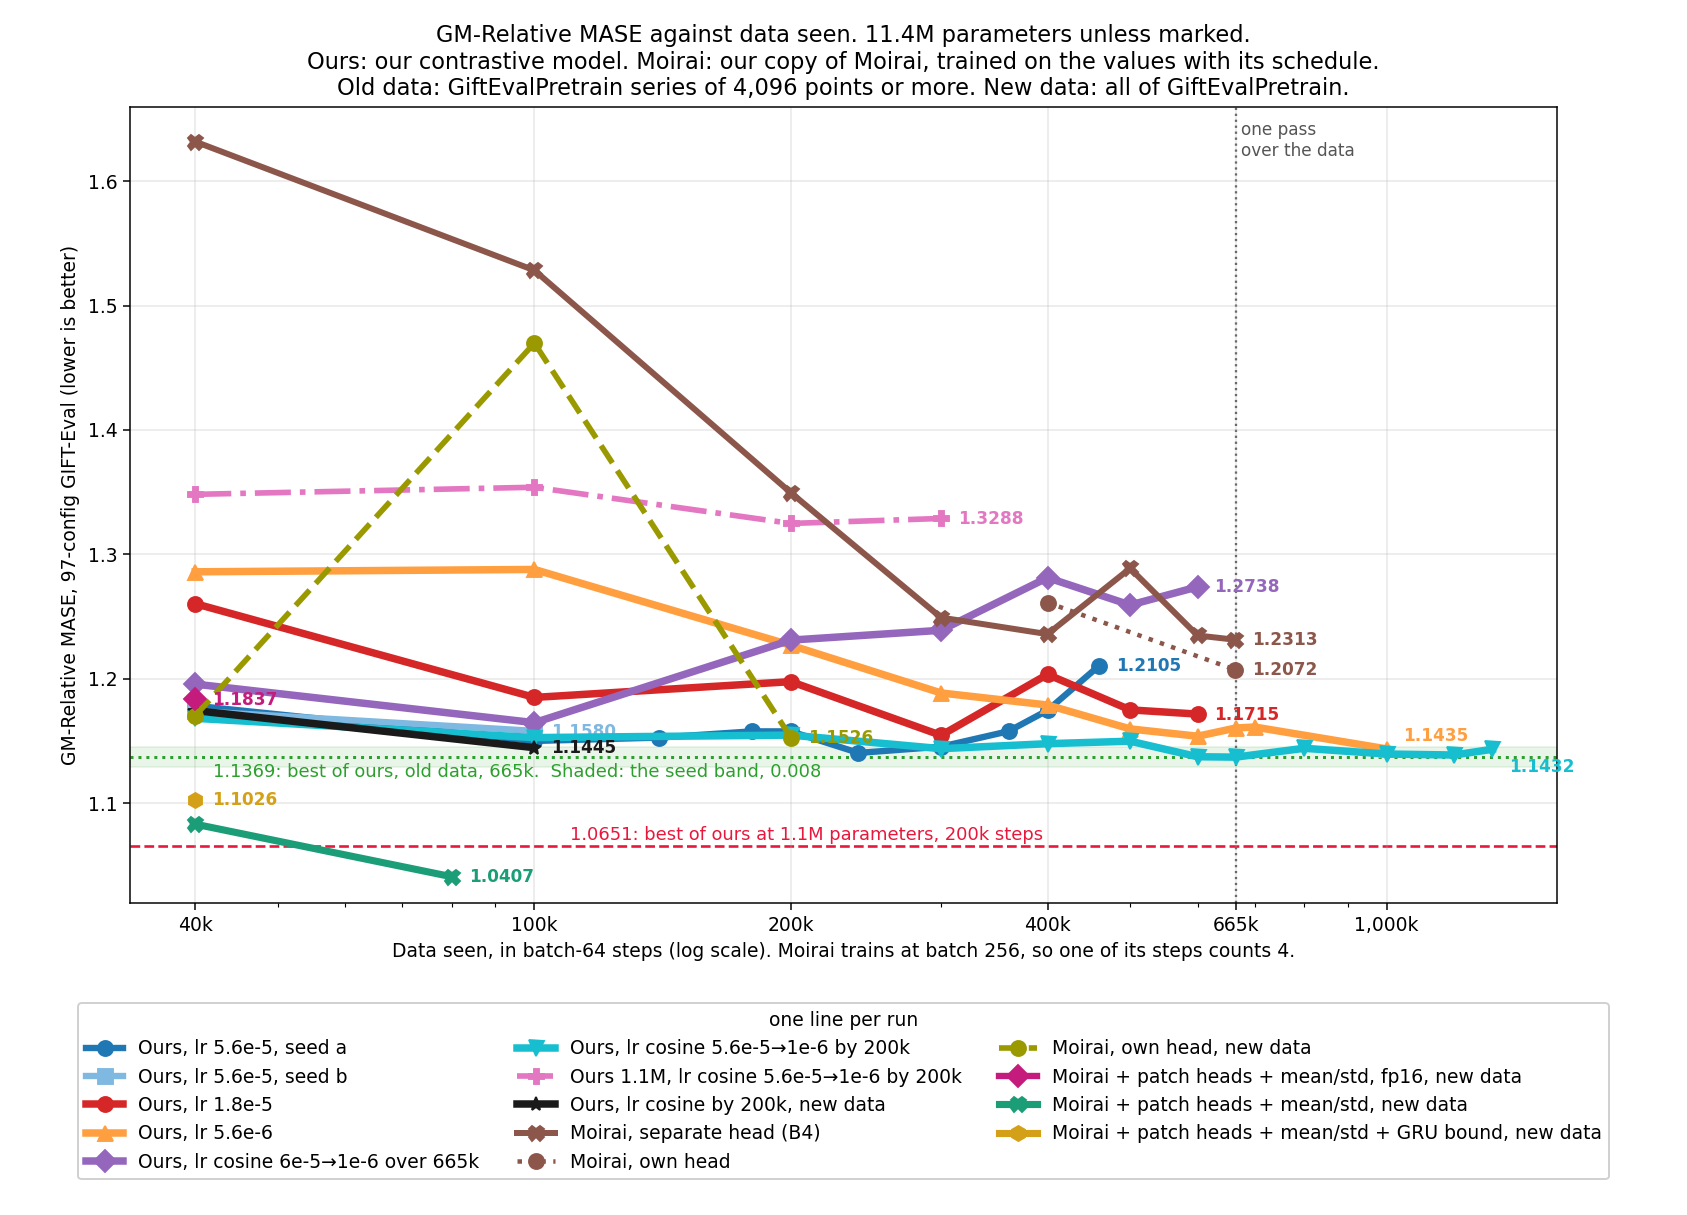
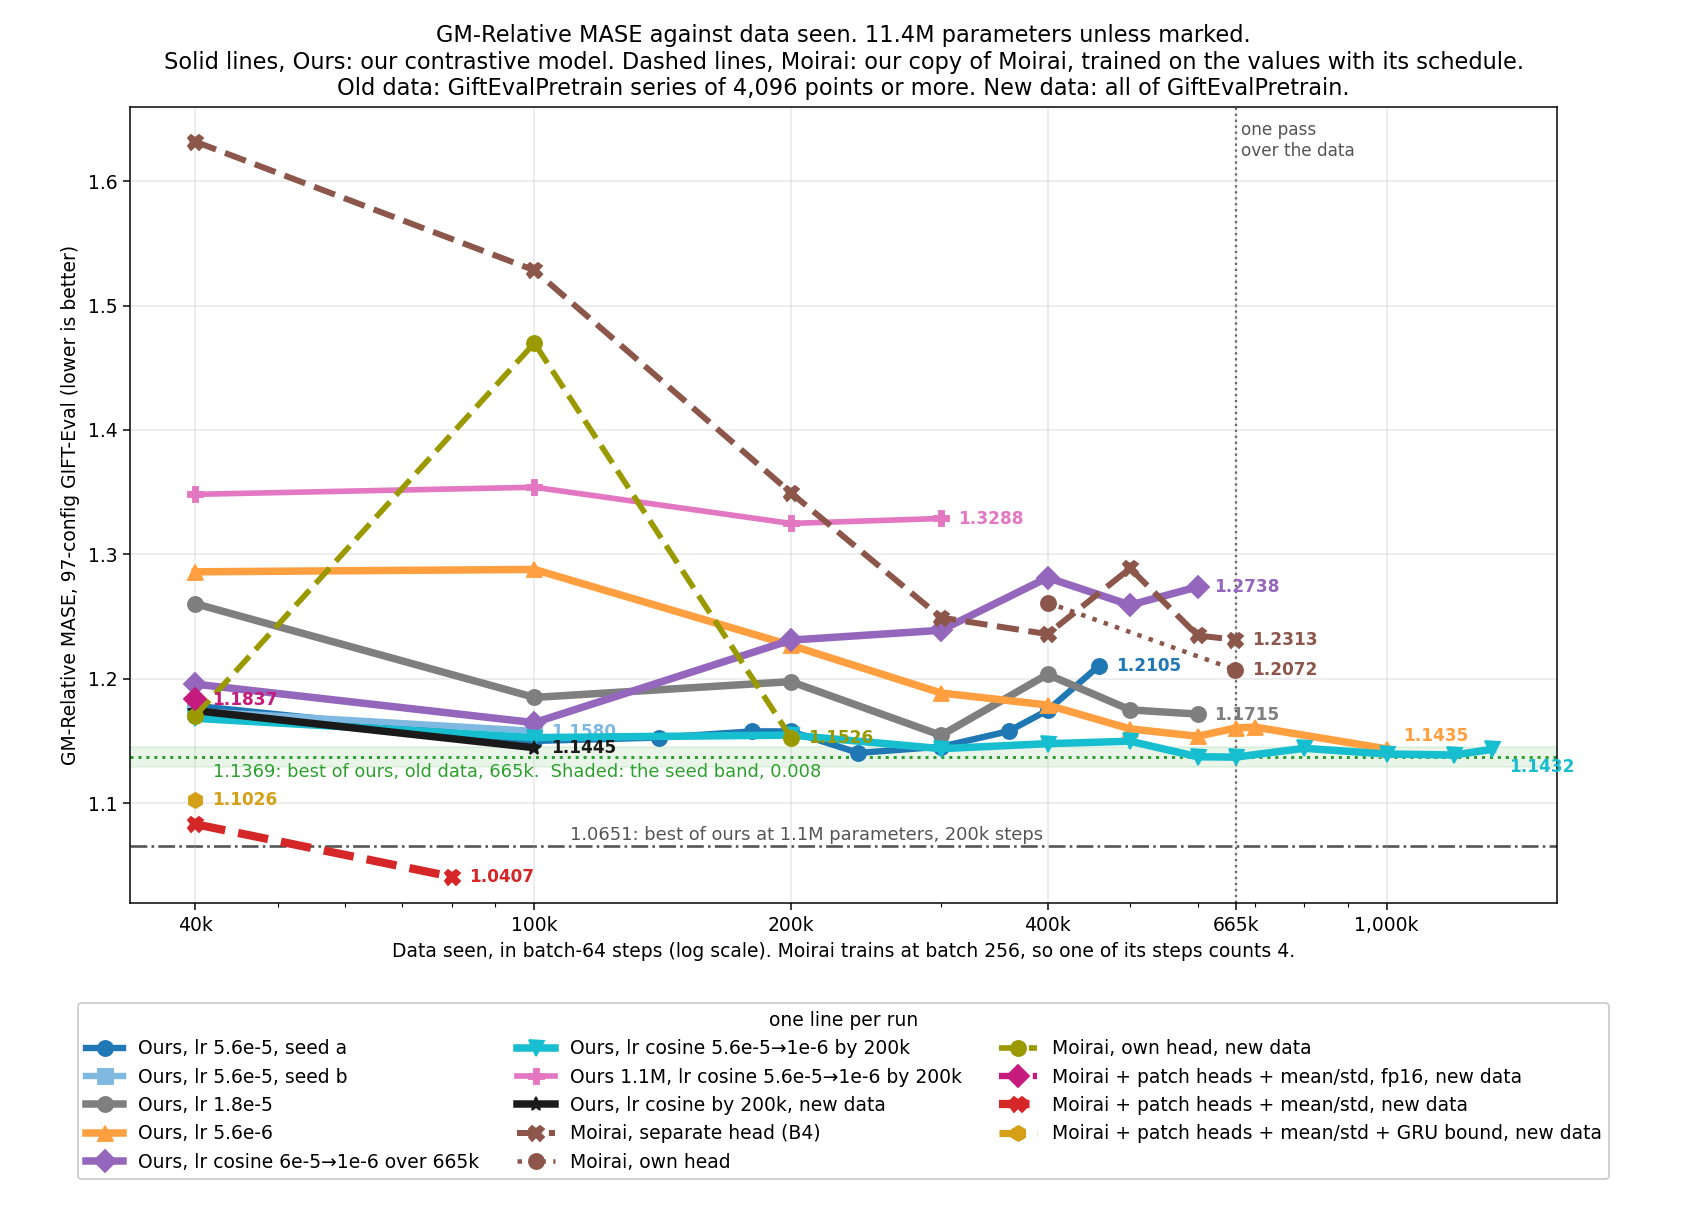
exp(#421): one colour and line style per run in every figure
scripts/run_style.py holds the colour and the line style of each run, and
every figure reads it. Ours draws solid lines and Moirai dashed lines.
#421f, Moirai with patch heads and mean/std, is red; the lr 1.8e-5 run of
ours moves from red to grey. The 1.0651 line is grey dash-dot.

diff --git a/reports/2026-09-06_moirai_small_size/scripts/plot_gm_rates.py b/reports/2026-09-06_moirai_small_size/scripts/plot_gm_rates.py
@@ -9,31 +9,35 @@ import matplotlib
 matplotlib.use("Agg")
 import matplotlib.pyplot as plt
 
+from run_style import P, colour, line
+
 STUDY = Path(__file__).resolve().parent.parent
 TSV = STUDY / "results" / "gm_trajectories.tsv"
 OUT = STUDY / "plots" / "gm_mase_rates.png"
 
-P = "k3_r100_09_lr56_fix09_dec10k"
-# arm, label, colour, line width, marker, line style
-SERIES = [
+# arm, label, line width, marker. The colour and the line style come from
+# run_style.py, so a run looks the same in every figure.
+RUNS = [
     # Ours: our contrastive model. The lr 5.6e-4 run (arm P) keeps its scores in
     # results/gm_trajectories.tsv; the owner took it off this figure.
-    (P + "_lr10x",    "Ours, lr 5.6e-5, seed a",                 "#1f77b4", 3.4, "o", "-"),
-    (P + "_lr10xb",   "Ours, lr 5.6e-5, seed b",                 "#7fb8e0", 3.4, "s", "-"),
-    (P + "_lr30x",    "Ours, lr 1.8e-5",                         "#d62728", 4.0, "o", "-"),
-    (P + "_lr100x",   "Ours, lr 5.6e-6",                         "#ff9f40", 4.0, "^", "-"),
-    (P + "_cos665k",  "Ours, lr cosine 6e-5→1e-6 over 665k",     "#9467bd", 4.0, "D", "-"),
-    (P + "_cos200k",  "Ours, lr cosine 5.6e-5→1e-6 by 200k",     "#17becf", 4.0, "v", "-"),
-    ("b2cos",         "Ours 1.1M, lr cosine 5.6e-5→1e-6 by 200k", "#e377c2", 3.0, "P", "-."),
-    ("cf419_cos200k", "Ours, lr cosine by 200k, new data",       "#1a1a1a", 4.0, "*", "-"),
+    (P + "_lr10x",    "Ours, lr 5.6e-5, seed a",                  3.4, "o"),
+    (P + "_lr10xb",   "Ours, lr 5.6e-5, seed b",                  3.4, "s"),
+    (P + "_lr30x",    "Ours, lr 1.8e-5",                          4.0, "o"),
+    (P + "_lr100x",   "Ours, lr 5.6e-6",                          4.0, "^"),
+    (P + "_cos665k",  "Ours, lr cosine 6e-5→1e-6 over 665k",      4.0, "D"),
+    (P + "_cos200k",  "Ours, lr cosine 5.6e-5→1e-6 by 200k",      4.0, "v"),
+    ("b2cos",         "Ours 1.1M, lr cosine 5.6e-5→1e-6 by 200k", 3.0, "P"),
+    ("cf419_cos200k", "Ours, lr cosine by 200k, new data",        4.0, "*"),
     # Moirai: our copy of Moirai, trained on the values with its schedule.
-    ("cf415_moirai",  "Moirai, separate head (B4)",              "#8c564b", 3.2, "X", "-"),
-    ("cf415_moirai_native", "Moirai, own head",                  "#8c564b", 2.4, "o", ":"),
-    ("cf419_moirai_native", "Moirai, own head, new data",        "#9a9a00", 3.0, "o", "--"),
-    ("cf421z_moirai_native", "Moirai + patch heads + mean/std, fp16, new data", "#c51b7d", 3.4, "D", "-"),
-    ("cf421f_moirai_native", "Moirai + patch heads + mean/std, new data", "#1b9e77", 3.8, "X", "-"),
-    ("cf421fb_moirai_native", "Moirai + patch heads + mean/std + GRU bound, new data", "#d4a017", 3.8, "h", "-"),
+    ("cf415_moirai",  "Moirai, separate head (B4)",               3.2, "X"),
+    ("cf415_moirai_native", "Moirai, own head",                   2.4, "o"),
+    ("cf419_moirai_native", "Moirai, own head, new data",         3.0, "o"),
+    ("cf421z_moirai_native", "Moirai + patch heads + mean/std, fp16, new data", 3.4, "D"),
+    ("cf421f_moirai_native", "Moirai + patch heads + mean/std, new data", 4.4, "X"),
+    ("cf421fb_moirai_native", "Moirai + patch heads + mean/std + GRU bound, new data", 3.8, "h"),
 ]
+SERIES = [(arm, label, colour(arm), width, marker, line(arm))
+          for arm, label, width, marker in RUNS]
 # Moirai trains at batch 256: one of its steps holds the data of four
 # batch-64 steps.
 XSCALE = {"cf415_moirai": 4, "cf415_moirai_native": 4, "cf419_moirai_native": 4,
@@ -78,9 +82,9 @@ def draw_references(ax):
     ax.axhspan(BEST - BAND, BEST + BAND, color="#2ca02c", alpha=0.10, zorder=0)
     ax.text(42000, BEST - 0.016, f"{BEST}: best of ours, old data, 665k.  "
             "Shaded: the seed band, 0.008", fontsize=9.5, color="#2ca02c")
-    ax.axhline(PROJECT_BEST, color="#e8173c", ls="--", lw=1.4, zorder=1)
+    ax.axhline(PROJECT_BEST, color="#555555", ls="-.", lw=1.4, zorder=1)
     ax.text(110000, PROJECT_BEST + 0.005, f"{PROJECT_BEST}: best of ours at 1.1M parameters, "
-            "200k steps", fontsize=9.5, color="#e8173c")
+            "200k steps", fontsize=9.5, color="#555555")
     ax.axvline(665000, color="#555555", ls=":", lw=1.2, zorder=1)
     ax.text(675000, YMAX - 0.012, "one pass\nover the data", fontsize=9,
             color="#555555", va="top")
@@ -101,8 +105,8 @@ def main():
                   "batch 256, so one of its steps counts 4.")
     ax.set_ylabel("GM-Relative MASE, 97-config GIFT-Eval (lower is better)")
     ax.set_title("GM-Relative MASE against data seen. 11.4M parameters unless marked.\n"
-                 "Ours: our contrastive model. Moirai: our copy of Moirai, trained "
-                 "on the values with its schedule.\n"
+                 "Solid lines, Ours: our contrastive model. Dashed lines, Moirai: "
+                 "our copy of Moirai, trained on the values with its schedule.\n"
                  "Old data: GiftEvalPretrain series of 4,096 points or more. "
                  "New data: all of GiftEvalPretrain.")
     ax.grid(alpha=0.3)

diff --git a/reports/2026-09-06_moirai_small_size/scripts/plot_radar_419.py b/reports/2026-09-06_moirai_small_size/scripts/plot_radar_419.py
@@ -6,18 +6,21 @@ results/per_config/radar. The colours are those of the curves figure.
 """
 import re
 from radar_lib import RADAR, STUDY, draw
+from run_style import P, colour, line
 
-# Run name in results/, CSV prefix in the radar folder, legend label, colour.
+# Run name in results/, CSV prefix in the radar folder, legend label. The
+# colour and the line style come from run_style.py.
 NEW_DATA = [
-    ("cf419_cos200k", "cos419_", "Ours", "#1a1a1a"),
-    ("cf419_moirai_native", "moirai419_native", "Moirai", "#9a9a00"),
-    ("cf421f_moirai_native", "moirai421f_native", "Moirai + patch heads + mean/std", "#1b9e77"),
+    ("cf419_cos200k", "cos419_", "Ours"),
+    ("cf419_moirai_native", "moirai419_native", "Moirai"),
+    ("cf421f_moirai_native", "moirai421f_native", "Moirai + patch heads + mean/std"),
     ("cf421fb_moirai_native", "moirai421fb_native",
-     "Moirai + patch heads + mean/std + GRU bound", "#d4a017"),
+     "Moirai + patch heads + mean/std + GRU bound"),
 ]
-OLD_BEST = ("cyan665", "Ours, old data, 665k   1.1369", "#17becf")
+OLD_BEST = ("cyan665", "Ours, old data, 665k   1.1369",
+            colour(P + "_cos200k"), line(P + "_cos200k"))
 TITLE = ("Relative MASE per GIFT-Eval dataset (geometric mean over its configs), each run at its best checkpoint\n"
-         "Ours: our contrastive model. Moirai: our copy of Moirai.\n"
+         "Solid lines, Ours: our contrastive model. Dashed lines, Moirai: our copy of Moirai.\n"
          "New data: all of GiftEvalPretrain. Old data: its series of 4,096 points or more.\n"
          "Green ring: seasonal naive (1.0). Inside is better. The hardest datasets are at the top.")
 
@@ -35,11 +38,12 @@ def scored_stops(arm, csv_prefix):
 def new_data_arms():
     """The best scored stop of each new-data run, when it has one."""
     arms = []
-    for arm, prefix, label, colour in NEW_DATA:
+    for arm, prefix, label in NEW_DATA:
         stops = scored_stops(arm, prefix)
         if stops:
             k = min(stops, key=stops.get)
-            arms.append((f"{prefix}{k}k", f"{label}, new data, {k}k   {stops[k]:.4f}", colour))
+            arms.append((f"{prefix}{k}k", f"{label}, new data, {k}k   {stops[k]:.4f}",
+                         colour(arm), line(arm)))
     return arms
 
 

diff --git a/reports/2026-09-06_moirai_small_size/scripts/plot_radar_value.py b/reports/2026-09-06_moirai_small_size/scripts/plot_radar_value.py
@@ -1,12 +1,14 @@
 """#414 and #415: the value-space reference against the best contrastive model."""
 from radar_lib import STUDY, draw
+from run_style import MOIRAI, P, colour, line
 
 # The best contrastive run against the value-space reference with the Moirai
 # schedule. The flat-rate run trained without that schedule, so it stays out.
-ARMS = [("cyan665",    "Ours, 665k   1.1369", "#17becf"),
-        ("moirai_native166k", "Moirai, own head, 166k   1.2072", "#8c564b")]
+ARMS = [("cyan665", "Ours, 665k   1.1369", colour(P + "_cos200k"), line(P + "_cos200k")),
+        ("moirai_native166k", "Moirai, own head, 166k   1.2072",
+         colour("cf415_moirai_native"), MOIRAI)]
 TITLE = ("Relative MASE per GIFT-Eval dataset (geometric mean over its configs), old data\n"
-         "Ours: our contrastive model. Moirai: our copy of Moirai.\n"
+         "Solid line, Ours: our contrastive model. Dashed line, Moirai: our copy of Moirai.\n"
          "Green ring: seasonal naive (1.0). Inside is better. The hardest datasets are at the top.")
 
 draw(ARMS, TITLE, STUDY / "plots/gm_mase_radar_value.png")

diff --git a/reports/2026-09-06_moirai_small_size/scripts/run_style.py b/reports/2026-09-06_moirai_small_size/scripts/run_style.py
@@ -1,0 +1,33 @@
+"""One colour and one line style per run, for every figure of the report.
+
+Ours (our contrastive model) draws solid lines, and Moirai (our copy of
+Moirai) draws dashed lines. A run keeps its colour in every figure."""
+
+OURS, MOIRAI = "-", "--"
+P = "k3_r100_09_lr56_fix09_dec10k"
+
+# run: (colour, line style)
+STYLE = {
+    P + "_lr10x": ("#1f77b4", OURS),
+    P + "_lr10xb": ("#7fb8e0", OURS),
+    P + "_lr30x": ("#7f7f7f", OURS),
+    P + "_lr100x": ("#ff9f40", OURS),
+    P + "_cos665k": ("#9467bd", OURS),
+    P + "_cos200k": ("#17becf", OURS),
+    "b2cos": ("#e377c2", OURS),
+    "cf419_cos200k": ("#1a1a1a", OURS),
+    "cf415_moirai": ("#8c564b", MOIRAI),
+    "cf415_moirai_native": ("#8c564b", ":"),
+    "cf419_moirai_native": ("#9a9a00", MOIRAI),
+    "cf421z_moirai_native": ("#c51b7d", MOIRAI),
+    "cf421f_moirai_native": ("#d62728", MOIRAI),
+    "cf421fb_moirai_native": ("#d4a017", MOIRAI),
+}
+
+
+def colour(run):
+    return STYLE[run][0]
+
+
+def line(run):
+    return STYLE[run][1]

diff --git a/reports/2026-09-06_moirai_small_size/scripts/radar_lib.py b/reports/2026-09-06_moirai_small_size/scripts/radar_lib.py
@@ -69,14 +69,16 @@ def load(arms):
 
 
 def draw(arms, title, out_png):
-    """arms: [(CSV name in RADAR, legend label, colour)]. Returns {arm: {dataset: value}}."""
+    """arms: [(CSV name in RADAR, legend label, colour, line style)].
+    Returns {arm: {dataset: value}}."""
     per_ds = load(arms)
     labels = bell_order(per_ds)
     ang = [n / len(labels) * 2 * math.pi for n in range(len(labels))] + [0.0]
     fig, ax = plt.subplots(figsize=(11.5, 10.5), subplot_kw=dict(polar=True))
-    for name, lab, col in arms:
+    for name, lab, col, ls in arms:
         vals = [per_ds[name].get(d, float("nan")) for d in labels]
-        ax.plot(ang, vals + vals[:1], "-o", color=col, lw=2.4, ms=5, label=lab, zorder=3)
+        ax.plot(ang, vals + vals[:1], ls, marker="o", color=col, lw=2.4, ms=5,
+                label=lab, zorder=3)
     ax.plot(ang, [1.0] * len(ang), color="#2ca02c", ls="--", lw=1.8, zorder=4)
     style_axes(ax, labels, ang)
     ax.set_title(title, fontsize=12, pad=28)

diff --git a/reports/2026-09-06_moirai_small_size/scripts/plot_hard.py b/reports/2026-09-06_moirai_small_size/scripts/plot_hard.py
@@ -22,7 +22,8 @@ def per_ds(p):
             g[k.split("/")[0]].append(math.log(v / sn[k]))
     return {d: math.exp(sum(x) / len(x)) for d, x in g.items()}
 
-ARMS = [("blue", "5.6e-5", "#1f77b4"), ("yellow", "5.6e-6", "#ff9f40")]
+from run_style import P, colour
+ARMS = [("blue", "5.6e-5", colour(P + "_lr10x")), ("yellow", "5.6e-6", colour(P + "_lr100x"))]
 curves = {}
 for arm, _, _ in ARMS:
     stops = sorted(int(os.path.basename(f).split("_")[1].split(".")[0])
